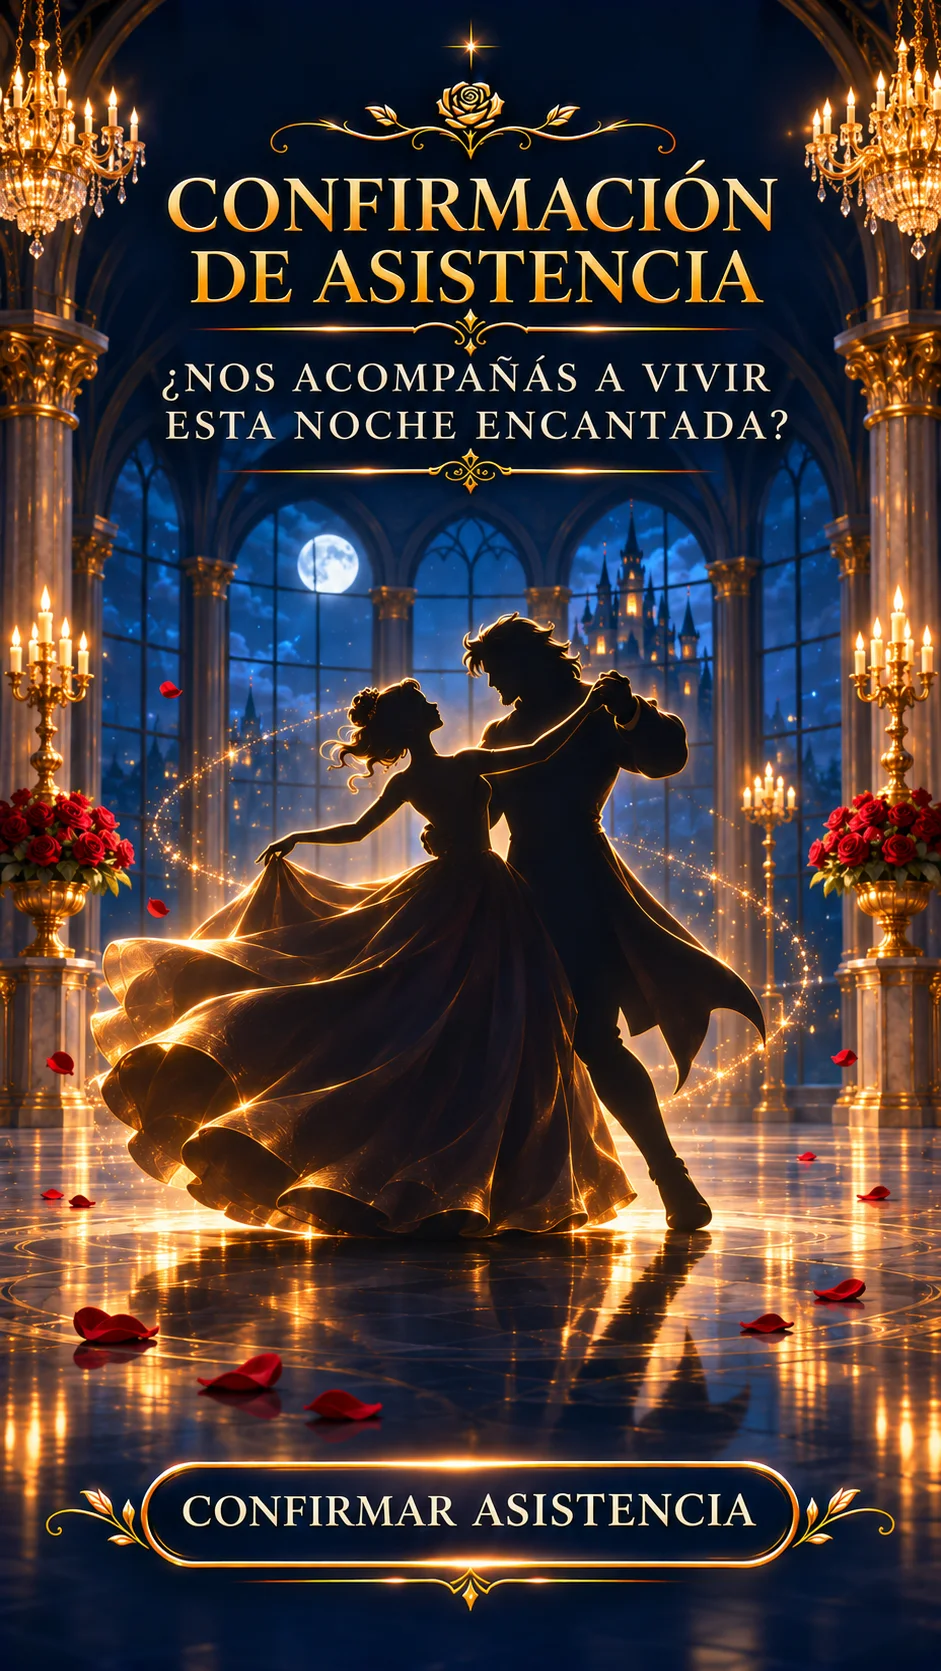
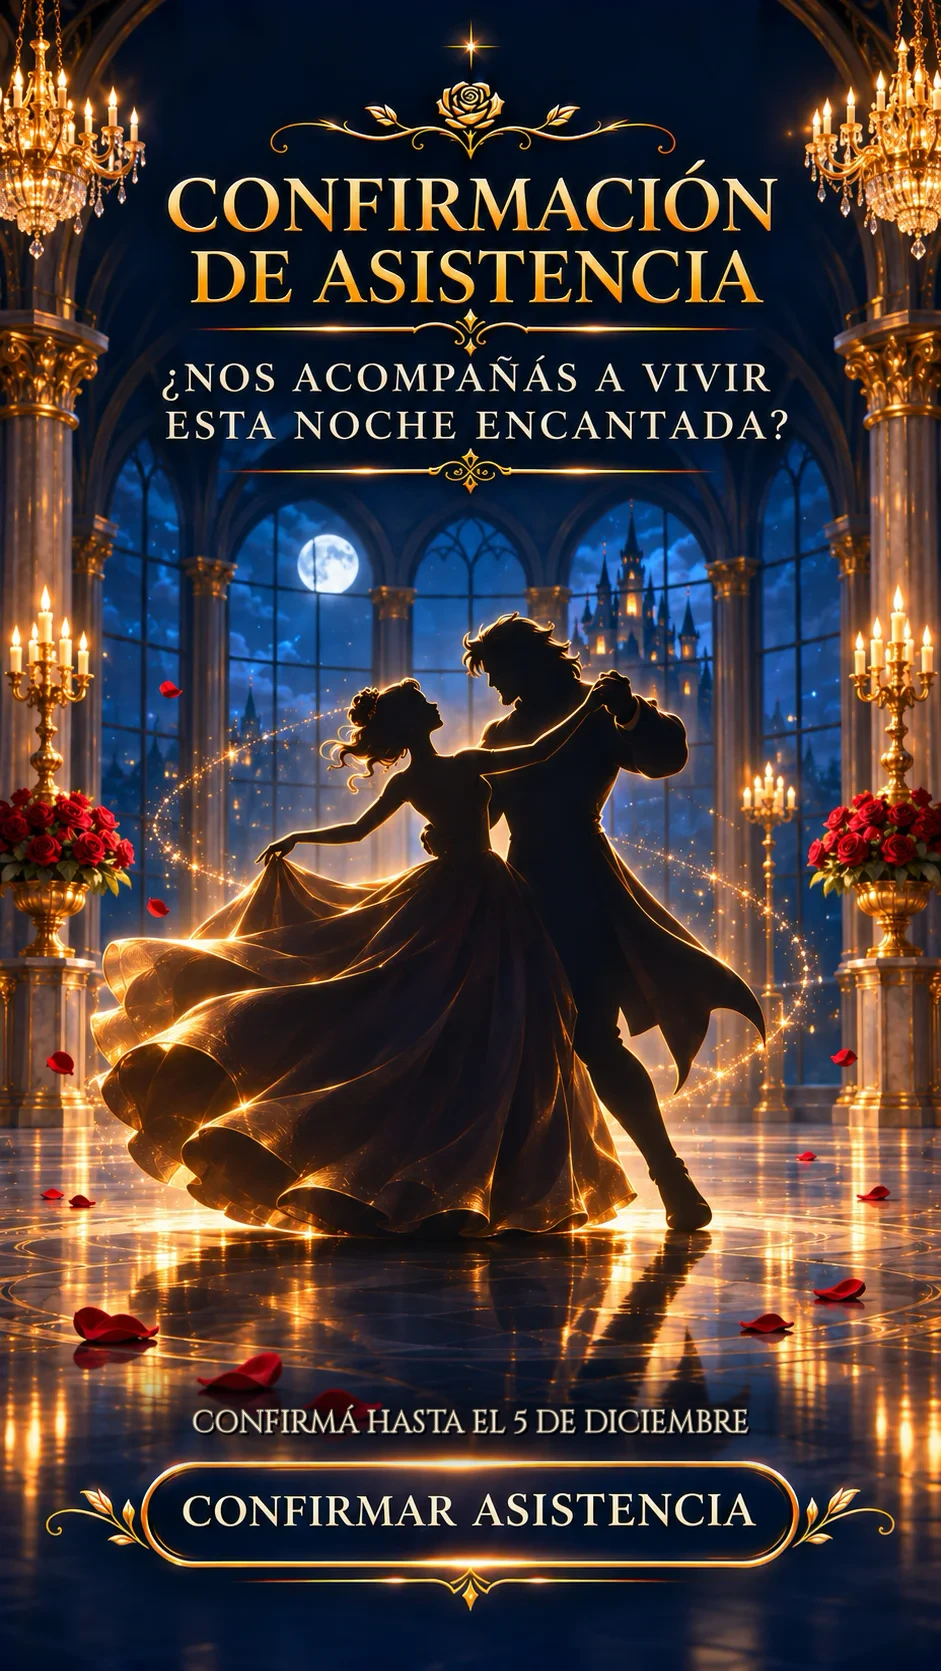
Horario 21 hs, zapatillas en dress code, fecha límite de confirmación y ubicación

diff --git a/index.html b/index.html
@@ -83,10 +83,10 @@
       </section>
 
       <!-- Fecha: el espejo está empañado por el hechizo; se raspa con el dedo para ver la fecha -->
-      <section class="panel panel--date reveal" id="datePanel" aria-labelledby="date-title" style="--bg: url(assets/fecha-hora.webp)">
+      <section class="panel panel--date reveal" id="datePanel" aria-labelledby="date-title" style="--bg: url(assets/fecha-hora.webp?v=2)">
         <div class="panel__stage">
           <h2 id="date-title" class="sr-only">Fecha y hora</h2>
-          <img src="assets/fecha-hora.webp" alt="Sábado 06 de febrero de 2027, de 20:00 a 05:00 horas" width="941" height="1672" loading="lazy" />
+          <img src="assets/fecha-hora.webp?v=2" alt="Sábado 06 de febrero de 2027, de 21:00 a 05:00 horas" width="941" height="1672" loading="lazy" />
           <div class="mirror" id="mirror">
             <canvas class="mirror__canvas" id="mirrorCanvas" aria-label="Pasá el dedo sobre el espejo para descubrir la fecha"></canvas>
             <div class="magic-trail" id="magicTrail" aria-hidden="true"></div>
@@ -99,7 +99,7 @@
           </div>
           <a
             class="hotspot hotspot--calendar"
-            href="https://calendar.google.com/calendar/render?action=TEMPLATE&amp;text=Mis%20XV%20%C2%B7%20Morena&amp;dates=20270206T230000Z/20270207T080000Z&amp;details=%C2%A1Te%20espero%20para%20celebrar%20mis%20XV!%20Dress%20code%3A%20elegante%2C%20vestimenta%20%C3%BAnicamente%20negra.&amp;location=La%20F%C3%A1brica"
+            href="https://calendar.google.com/calendar/render?action=TEMPLATE&amp;text=Mis%20XV%20%C2%B7%20Morena&amp;dates=20270207T000000Z/20270207T080000Z&amp;details=%C2%A1Te%20espero%20para%20celebrar%20mis%20XV!%20Dress%20code%3A%20elegante%2C%20vestimenta%20%C3%BAnicamente%20negra.&amp;location=La%20F%C3%A1brica"
             target="_blank"
             rel="noreferrer"
           ><span class="sr-only">Agregar al calendario</span></a>
@@ -110,16 +110,21 @@
         <div class="panel__stage">
           <h2 id="map-title" class="sr-only">Cómo llegar</h2>
           <img src="assets/como-llegar.webp" alt="Cómo llegar. La Fábrica" width="941" height="1672" loading="lazy" />
-          <a class="hotspot hotspot--map" href="#" data-pending="La ubicación estará disponible muy pronto" target="_blank" rel="noreferrer">
+          <a
+            class="hotspot hotspot--map"
+            href="https://www.google.com/maps/place/Sal%C3%B3n+de+Eventos+La+F%C3%A1brica/@-45.878411,-67.5031819,458m/data=!3m2!1e3!4b1!4m6!3m5!1s0xbde45494ccea48cb:0x2afb12d42f35803f!8m2!3d-45.878411!4d-67.5031819!16s%2Fg%2F11c1ww1fbt?entry=ttu&amp;g_ep=EgoyMDI2MTExMC4wIKXMDSoASAFQAw%3D%3D"
+            target="_blank"
+            rel="noreferrer"
+          >
             <span class="sr-only">Ver ubicación en Google Maps</span>
           </a>
         </div>
       </section>
 
-      <section class="panel panel--dress reveal" aria-labelledby="dress-title" style="--bg: url(assets/dress-code.webp)">
+      <section class="panel panel--dress reveal" aria-labelledby="dress-title" style="--bg: url(assets/dress-code.webp?v=2)">
         <div class="panel__stage">
           <h2 id="dress-title" class="sr-only">Dress code</h2>
-          <img src="assets/dress-code.webp" alt="Dress code elegante. Vestimenta únicamente negra" width="941" height="1672" loading="lazy" />
+          <img src="assets/dress-code.webp?v=2" alt="Dress code elegante. Vestimenta únicamente negra. Los varones pueden usar zapatillas" width="941" height="1672" loading="lazy" />
         </div>
       </section>
 
@@ -162,10 +167,10 @@
         </div>
       </section>
 
-      <section class="panel panel--rsvp reveal" aria-labelledby="rsvp-title" style="--bg: url(assets/confirmacion.webp)">
+      <section class="panel panel--rsvp reveal" aria-labelledby="rsvp-title" style="--bg: url(assets/confirmacion.webp?v=2)">
         <div class="panel__stage">
           <h2 id="rsvp-title" class="sr-only">Confirmación de asistencia</h2>
-          <img src="assets/confirmacion.webp" alt="Confirmación de asistencia. ¿Nos acompañás a vivir esta noche encantada?" width="941" height="1671" loading="lazy" />
+          <img src="assets/confirmacion.webp?v=2" alt="Confirmación de asistencia. ¿Nos acompañás a vivir esta noche encantada? Confirmá hasta el 5 de diciembre" width="941" height="1671" loading="lazy" />
           <a class="hotspot hotspot--rsvp" id="boton-confirmar" href="#" data-pending="Para confirmar, abrí el link personalizado que te enviaron">
             <span class="sr-only">Confirmar asistencia</span>
           </a>

diff --git a/script.js b/script.js
@@ -23,7 +23,7 @@
   new MutationObserver(fitGuestNames).observe(guestEl, { childList: true, characterData: true, subtree: true });
 
   /* ---------- Cuenta regresiva ---------- */
-  const target = new Date("2027-02-06T20:00:00-03:00").getTime();
+  const target = new Date("2027-02-06T21:00:00-03:00").getTime();
   const cd = ["cdDays", "cdHours", "cdMinutes", "cdSeconds"].map((id) => document.getElementById(id));
   const pad = (n) => String(n).padStart(2, "0");
   const tick = () => {
